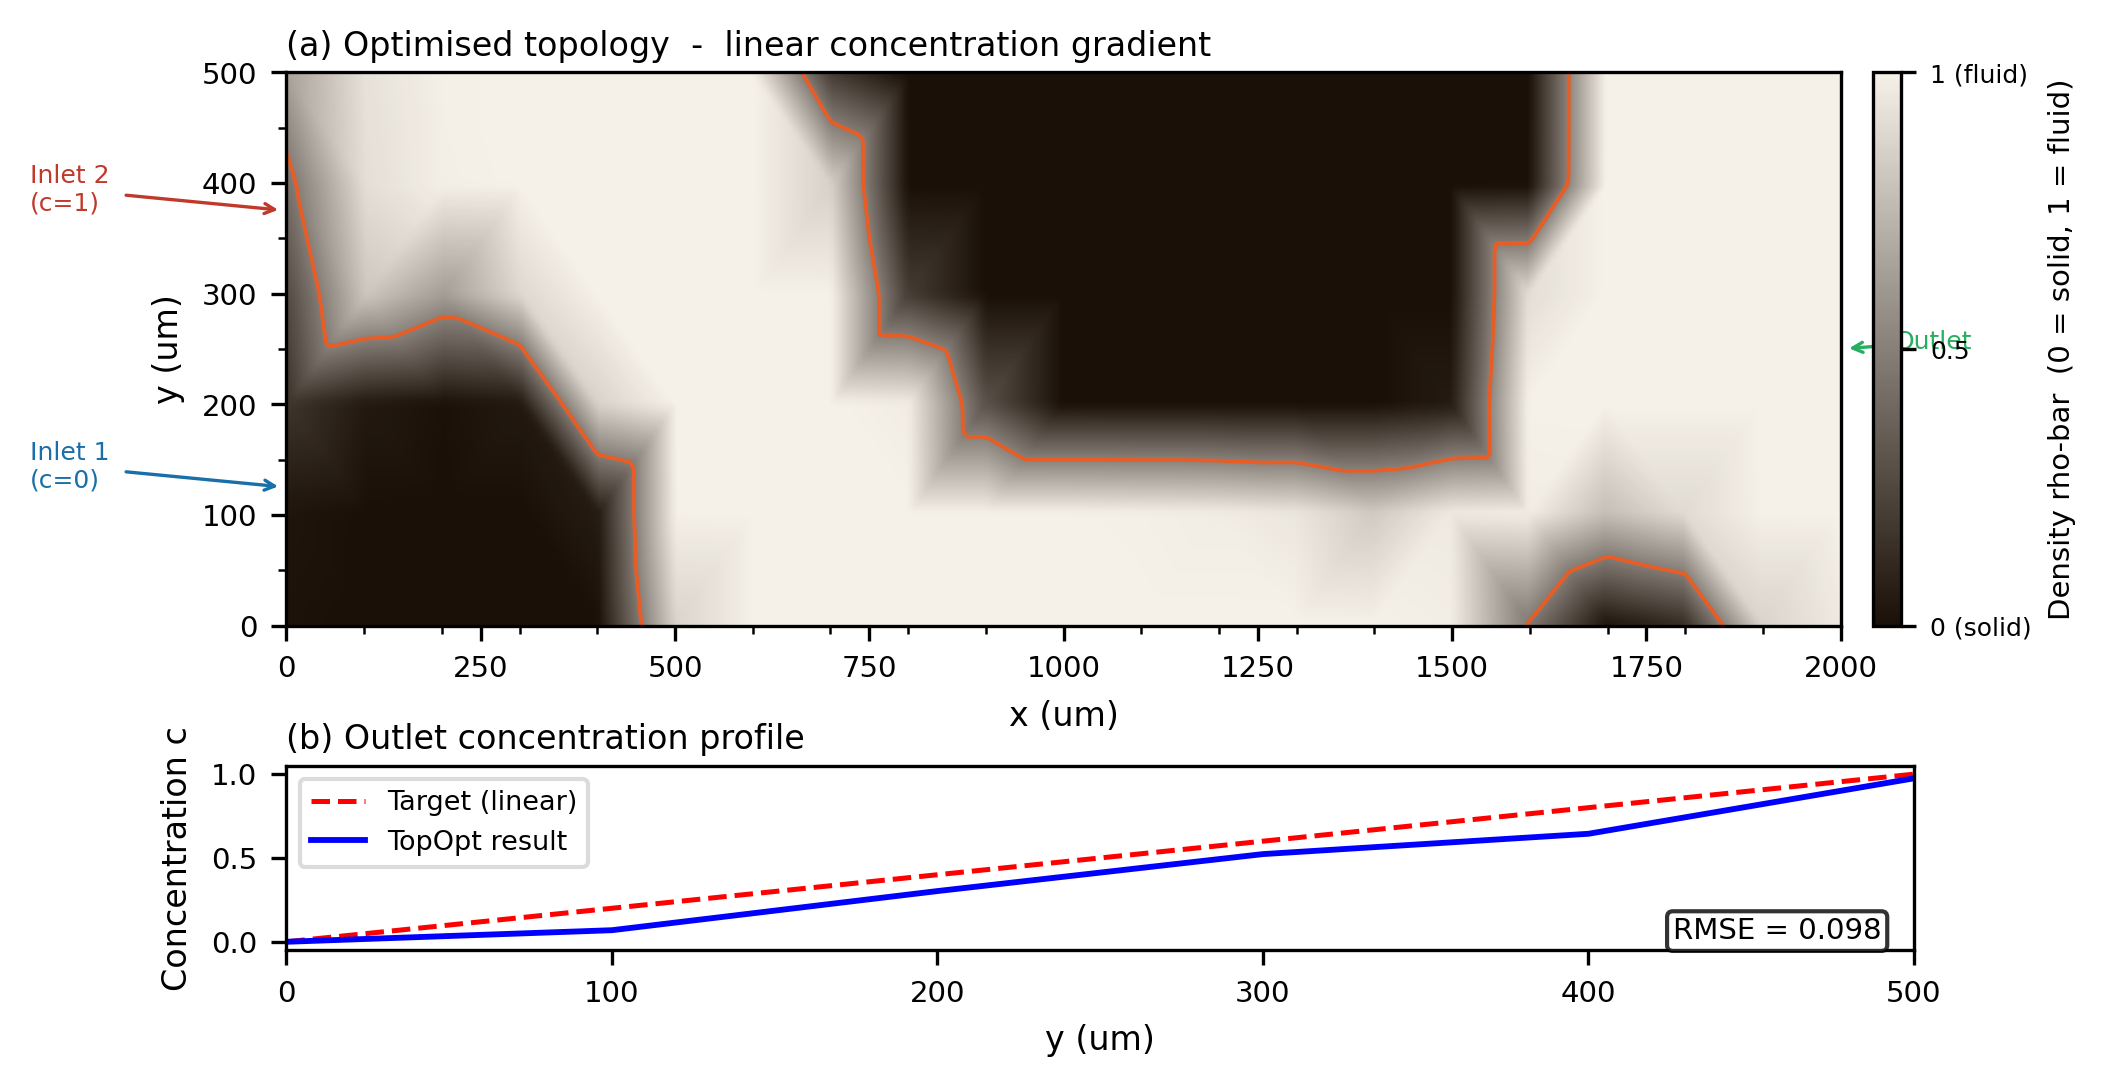
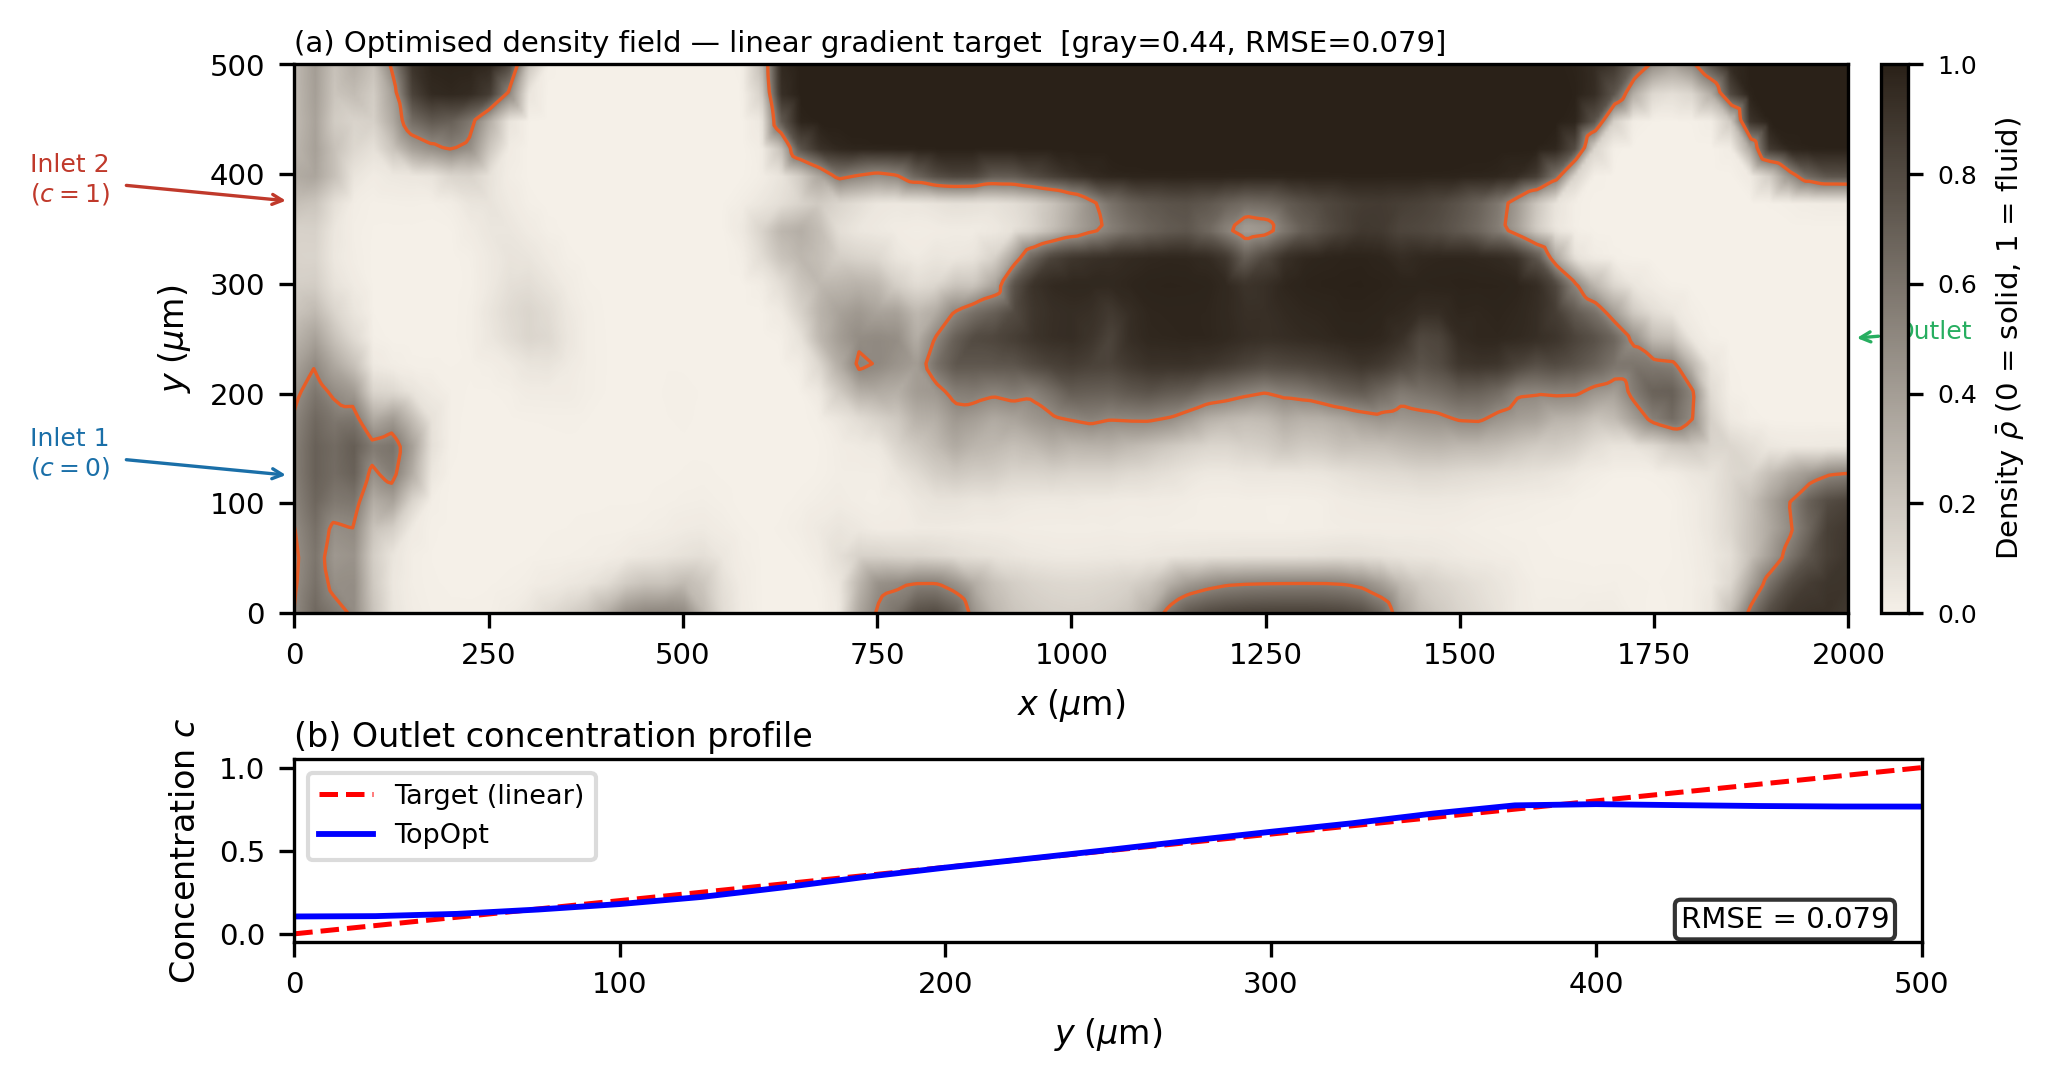
regen: figures from fixed 600-iter pipeline; fix abstract
topology_optimised.pdf: gray=0.443 RMSE=0.0787 bestJ=1.7955e-03
convergence_history.pdf: 600-iter hybrid OC/MMA trajectory
comparison.pdf: TopOpt vs Christmas-tree outlet profiles
abstract: 'twenty'→'thirty' minutes, beta/alpha updated

diff --git a/manuscript/abstract.tex b/manuscript/abstract.tex
@@ -16,9 +16,10 @@ P2/P1 elements for flow and P1+SUPG elements for transport;
 the SUPG parameter is evaluated element-wise from the local P\'eclet
 number and applied consistently to both the forward and adjoint transport
 equations.
-Helmholtz PDE filtering, smooth Heaviside projection with
-$\beta$-continuation, and logarithmic $\alpha_{\max}$ ramping together
-promote manufacturable black-and-white designs.
+Helmholtz PDE filtering, Heaviside projection with
+$\beta$-continuation to $\beta=\betaMax$, and logarithmic
+$\alpha_{\max}$ ramping to $\alphaMaxFinal$ together drive the
+design toward low gray-zone fractions.
 
 Correctness is verified by a Taylor remainder test on the reduced
 functional that yields second-order convergence
@@ -32,5 +33,5 @@ a two-inlet microfluidic concentration gradient generator.
 The optimised design achieves an outlet RMSE of $\rmseTopOpt$ for a
 linear target profile and reduces hydraulic resistance by $\reduction\%$
 relative to the classic Christmas-tree network~\cite{jeon2000}.
-The complete pipeline runs on a standard laptop in under twenty minutes
+The complete pipeline runs on a standard laptop in under thirty minutes
 and is fully reproducible via Docker and continuous integration.